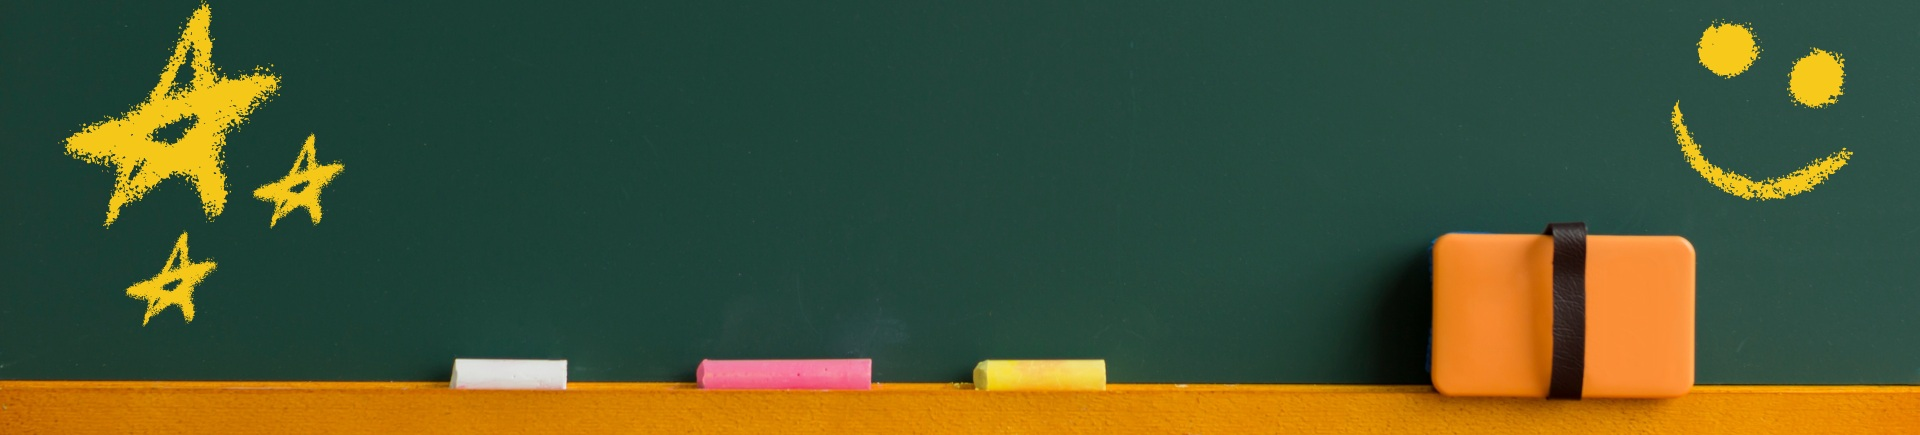
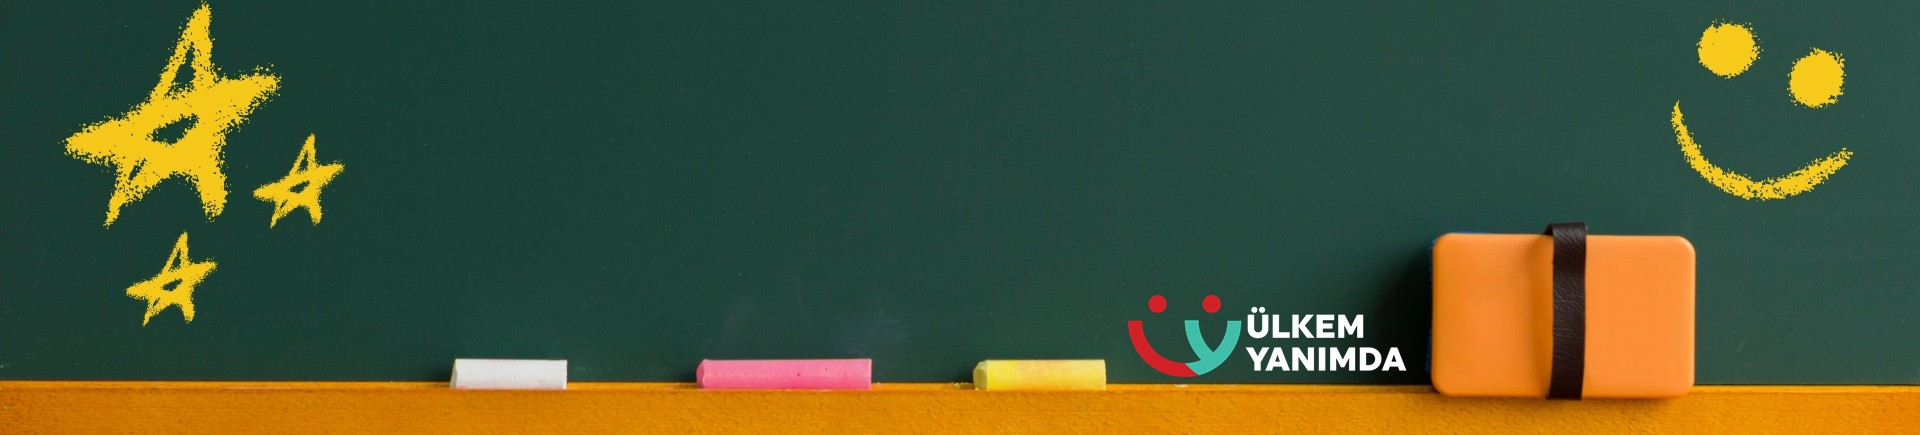
footer

Changed region(s): [[0.5625, 0.6874, 0.75, 0.8667]]

diff --git a/index.html b/index.html
@@ -212,5 +212,29 @@
 	
 
 	-->
+	
+	
+	
+	<footer style="background-color: #f1f1f1; padding: 20px 10px; text-align: center; font-family: Arial, sans-serif;">
+    <div style="margin-bottom: 15px;">
+        <div style="display: flex; justify-content: center; align-items: center; gap: 20px;">
+            <a href="https://yyegm.meb.gov.tr/" target="_blank">
+                <img src="icons/logo2.png" alt="Logo 1" style="height: 50px; width: auto;">
+            </a>
+            <a href="https://ulkemyanimda.github.io/" target="_blank">
+                <img src="icons/logo1.png" alt="Logo 2" style="height: 50px; width: auto;">
+            </a>
+        </div>
+    </div>
+    <div>
+        <p style="margin: 0; font-size: 14px; color: #333;">&copy; 2025 ÜLKEM YANIMDA!</p>
+    </div>
+</footer>
+	
+	
+	
+	
+	
+	
 </body>
 </html>
